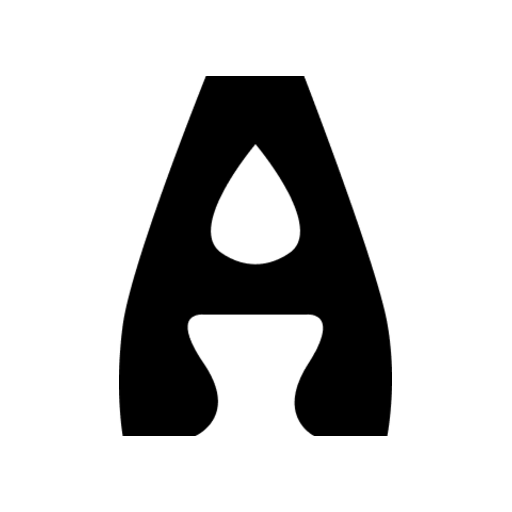
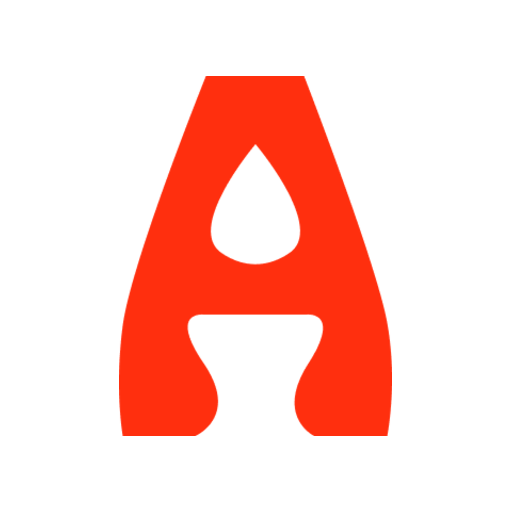
Make Atelierhaus red the site-wide accent color
Red from the A mark (#ff2f0e) replaces the sage green: primary buttons, eyebrows,
links, active nav, step numbers, team badge and favicon. Uses a darker text-safe
red for small text and white-label buttons, and a light coral on dark surfaces.

Claude-Session: https://claude.ai/code/session_01TaArwRqq61UtkLyU7AdvzZ

Changed region(s): [[0.2188, 0.125, 0.7812, 0.875]]

diff --git a/components/home/BusinessTeaser.tsx b/components/home/BusinessTeaser.tsx
@@ -10,7 +10,7 @@ export function BusinessTeaser({ items }: { items: { course: Course; offer: Busi
   return (
     <div className="grid overflow-hidden rounded-[36px] bg-[var(--crafty-ink)] text-white lg:grid-cols-[1fr_1.15fr]">
       <div className="flex flex-col justify-center p-8 sm:p-12">
-        <p className="text-sm font-bold uppercase tracking-[0.15em] text-[var(--pastel-sage)]">Für Firmen & HR</p>
+        <p className="text-sm font-bold uppercase tracking-[0.15em] text-[var(--crafty-accent-light)]">Für Firmen & HR</p>
         <h2 className="mt-3 text-4xl font-black leading-[1.02] tracking-tighter sm:text-5xl lg:text-6xl">
           Business-Trips für euer Team.
         </h2>
@@ -21,7 +21,7 @@ export function BusinessTeaser({ items }: { items: { course: Course; offer: Busi
         <ul className="mt-6 space-y-2 text-white/85">
           {benefits.map((benefit) => (
             <li key={benefit} className="flex gap-2">
-              <span aria-hidden className="text-[var(--pastel-sage)]">
+              <span aria-hidden className="text-[var(--crafty-accent-light)]">
                 ✓
               </span>
               {benefit}

diff --git a/app/kurse/[slug]/page.tsx b/app/kurse/[slug]/page.tsx
@@ -55,7 +55,7 @@ export default async function CourseDetailPage({ params }: { params: Promise<{ s
 
         {businessOffer && (
           <section className="mt-12 overflow-hidden rounded-[32px] bg-[var(--crafty-ink)] p-6 text-white sm:p-10">
-            <p className="text-xs font-bold uppercase tracking-[0.15em] text-[var(--pastel-sage)]">Für Firmen & HR</p>
+            <p className="text-xs font-bold uppercase tracking-[0.15em] text-[var(--crafty-accent-light)]">Für Firmen & HR</p>
             <h2 className="mt-2 text-3xl font-black tracking-tighter sm:text-4xl">Business-Trip für dein Team</h2>
             <p className="mt-3 max-w-xl text-white/70">
               Diesen Kurs gibt es exklusiv für eure Mitarbeitenden – mit eigenem Termin, Rechnung auf das Unternehmen

diff --git a/components/ui/Button.tsx b/components/ui/Button.tsx
@@ -13,9 +13,9 @@ type ButtonProps = {
 
 const variantClasses: Record<string, string> = {
   primary: "bg-[var(--crafty-ink)] text-white hover:bg-black",
-  secondary: "bg-[var(--crafty-accent)] text-[var(--crafty-ink)] hover:brightness-95",
+  secondary: "bg-[var(--crafty-accent-dark)] text-white hover:bg-[var(--crafty-accent-hover)]",
   ghost: "bg-transparent text-[var(--crafty-ink)] border border-[var(--crafty-ink)] hover:bg-[var(--crafty-ink)] hover:text-white",
-  "ghost-invert": "bg-transparent text-white border border-white/70 hover:bg-white hover:text-[var(--crafty-accent-dark)]",
+  "ghost-invert": "bg-transparent text-white border border-white/70 hover:bg-white hover:text-[var(--crafty-ink)]",
 };
 
 export function Button({

diff --git a/app/business/page.tsx b/app/business/page.tsx
@@ -18,7 +18,7 @@ export default function BusinessPage() {
     <div>
       <section className="bg-[var(--crafty-ink)] py-20 text-white sm:py-28">
         <div className="mx-auto max-w-6xl px-4 sm:px-6">
-          <p className="text-sm font-bold uppercase tracking-[0.15em] text-[var(--pastel-sage)]">Für Firmen & HR</p>
+          <p className="text-sm font-bold uppercase tracking-[0.15em] text-[var(--crafty-accent-light)]">Für Firmen & HR</p>
           <h1 className="mt-3 max-w-4xl text-5xl font-black leading-[0.95] tracking-tighter sm:text-7xl">
             Business-Trips, die euer Team nicht vergisst.
           </h1>

diff --git a/components/home/NextUpCard.tsx b/components/home/NextUpCard.tsx
@@ -35,7 +35,7 @@ function splitTitle(title: string): { prefix: string; rest: string | null } {
 
 export function NextUpCard({ items }: { items: UpcomingItem[] }) {
   return (
-    <div className="w-full rounded-[28px] bg-[var(--crafty-accent-dark)] p-6 sm:p-8">
+    <div className="w-full rounded-[28px] bg-[var(--crafty-ink)] p-6 sm:p-8">
       <h2 className="text-center text-3xl font-black tracking-tighter text-white sm:text-4xl">Nächste Termine in München</h2>
       <div className="mt-6 grid gap-4 sm:grid-cols-2">
         {items.map(({ slot, course, categoryId, categoryName, brandName }) => {

diff --git a/components/business/BusinessRequestForm.tsx b/components/business/BusinessRequestForm.tsx
@@ -84,7 +84,7 @@ export function BusinessRequestForm({ course, offer }: { course: Course; offer: 
   if (requestId) {
     return (
       <div className="rounded-[32px] bg-white p-8 sm:p-10">
-        <span className="flex h-14 w-14 items-center justify-center rounded-full bg-[var(--crafty-accent)] text-2xl" aria-hidden>
+        <span className="flex h-14 w-14 items-center justify-center rounded-full bg-[var(--crafty-accent)] text-2xl text-white" aria-hidden>
           ✓
         </span>
         <h2 className="mt-6 text-3xl font-black tracking-tighter text-[var(--crafty-ink)] sm:text-4xl">

diff --git a/app/page.tsx b/app/page.tsx
@@ -126,7 +126,7 @@ export default function HomePage() {
         <div className="mx-auto max-w-6xl px-4 sm:px-6">
           <div className="grid gap-12 lg:grid-cols-[1.1fr_1fr] lg:items-end">
             <div>
-              <p className="mb-3 text-sm font-bold uppercase tracking-[0.15em] text-[var(--pastel-sage)]">
+              <p className="mb-3 text-sm font-bold uppercase tracking-[0.15em] text-[var(--crafty-accent-light)]">
                 Warum Atelierhaus
               </p>
               <h2 className="text-4xl font-black leading-[1.05] tracking-tighter sm:text-5xl lg:text-6xl">

diff --git a/app/globals.css b/app/globals.css
@@ -8,8 +8,13 @@
   --crafty-surface: #ffffff;
   --crafty-ink: #2b2a28;
   --crafty-muted: #8a8377;
-  --crafty-accent: #cfe3cb;
-  --crafty-accent-dark: #4f6f52;
+  /* Accent — Atelierhaus red from the A mark */
+  --crafty-accent: #ff2f0e;
+  /* Text-safe red for small text and buttons with white labels (AA on cream/white) */
+  --crafty-accent-dark: #d42400;
+  --crafty-accent-hover: #b81f00;
+  /* Lighter coral for small text on dark surfaces */
+  --crafty-accent-light: #ff7a5c;
   --crafty-border: rgba(43, 42, 40, 0.08);
 
   /* Pastel palette for illustrations, badges, gradients */

diff --git a/components/course/CourseCard.tsx b/components/course/CourseCard.tsx
@@ -40,7 +40,7 @@ export function CourseCard({ course, category, brand }: CourseCardProps) {
           <PlaceholderImage seed={course.slug} label={category?.name ?? course.category} className="h-full w-full" />
         )}
         {getBusinessOffer(course.slug) && (
-          <span className="absolute left-3 top-3 rounded-full bg-[var(--crafty-ink)] px-3 py-1 text-xs font-bold text-white">
+          <span className="absolute left-3 top-3 rounded-full bg-[var(--crafty-accent-dark)] px-3 py-1 text-xs font-bold text-white">
             Für Teams buchbar
           </span>
         )}

diff --git a/components/nav/SiteHeader.tsx b/components/nav/SiteHeader.tsx
@@ -41,7 +41,7 @@ export function SiteHeader() {
                 key={link.href}
                 href={link.href}
                 className={`text-xs font-bold uppercase tracking-wide transition-colors hover:text-[var(--crafty-accent-dark)] ${
-                  pathname === link.href ? "text-[var(--crafty-accent-dark)]" : "text-[var(--crafty-accent-dark)]/80"
+                  pathname === link.href ? "text-[var(--crafty-accent-dark)]" : "text-[var(--crafty-ink)]"
                 }`}
               >
                 {link.label}
